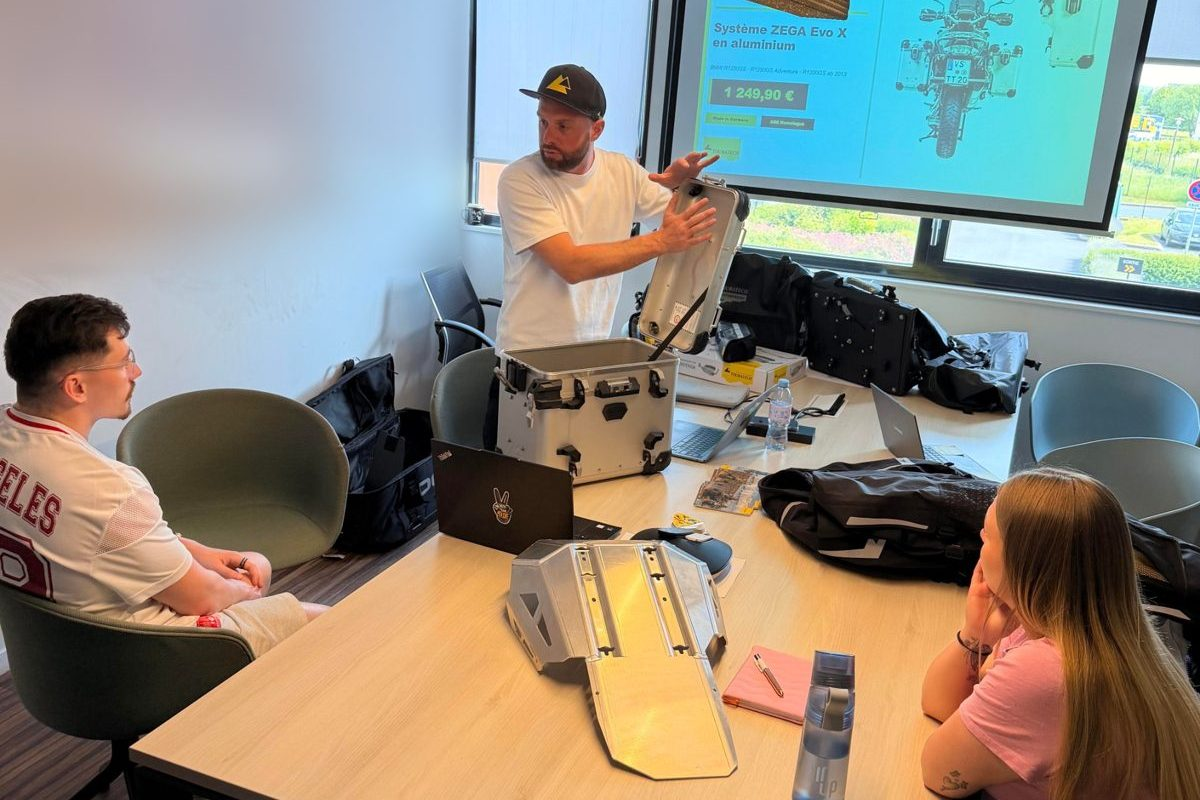
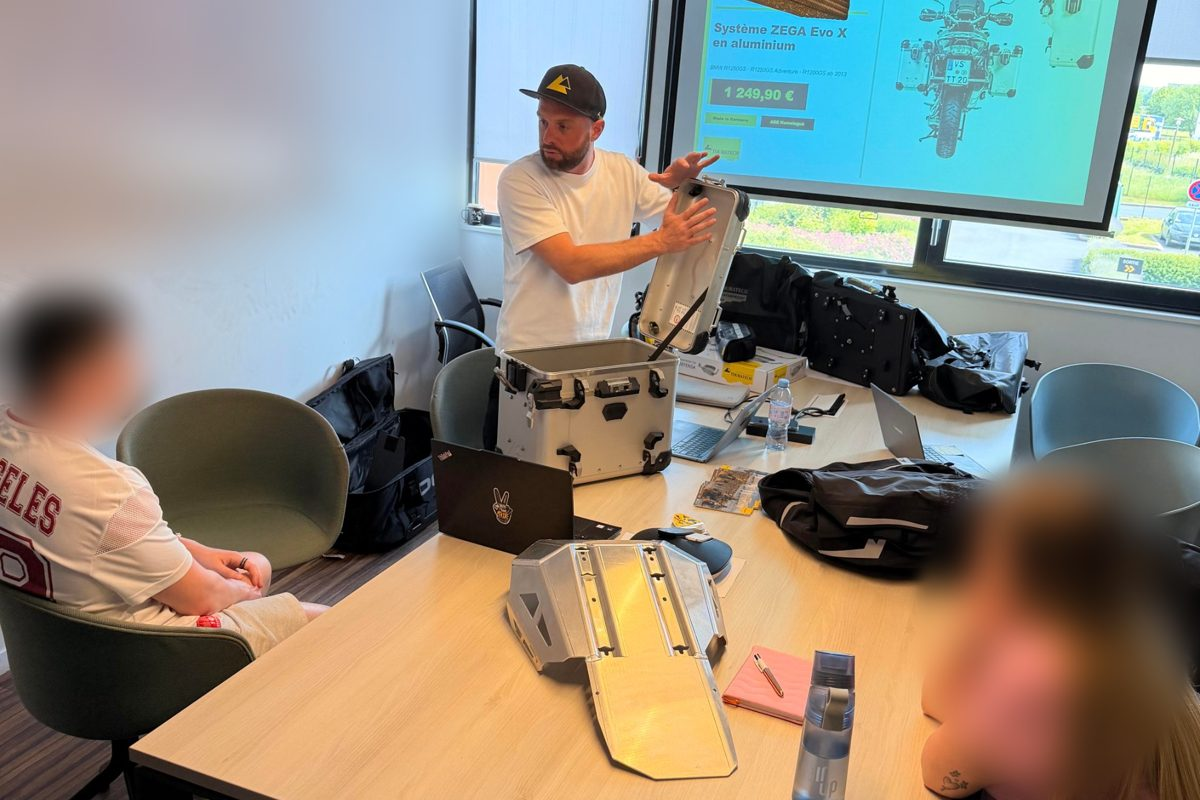
Visages floutés, mentions légales complètes, TVA 293 B
Claude-Session: https://claude.ai/code/session_0161zJMtCFfV81ACgwLPUevq

Changed region(s): [[0.74, 0.5625, 1.0, 1.0], [0.0, 0.3438, 0.1542, 0.5625], [0.9867, 0.2188, 1.0, 0.25]]

diff --git a/index.html b/index.html
@@ -32,9 +32,9 @@
   "image": ["https://raynaudquent.github.io/raynaud-consulting/og-image.png", "https://raynaudquent.github.io/raynaud-consulting/img/quentin-raynaud.jpg"],
   "telephone": "+33743506722",
   "email": "infos@brame-store.com",
-  "priceRange": "350 € – 1 400 € HT",
+  "priceRange": "350 € – 1 400 €",
   "identifier": {"@type": "PropertyValue", "propertyID": "SIREN", "value": "943388728"},
-  "address": {"@type": "PostalAddress", "addressLocality": "Seyssel", "postalCode": "74910", "addressRegion": "Haute-Savoie", "addressCountry": "FR"},
+  "address": {"@type": "PostalAddress", "addressLocality": "Seyssel", "postalCode": "01420", "addressRegion": "Ain", "addressCountry": "FR"},
   "areaServed": ["Haute-Savoie", "Savoie", "Ain", "Isère", "Annecy", "Chambéry", "Lyon", "Genève", "Suisse romande"],
   "founder": {"@type": "Person", "name": "Quentin Raynaud", "jobTitle": "Coach vente", "sameAs": ["https://www.linkedin.com/in/quentin-raynaud-825677b0/"]},
   "sameAs": ["https://www.linkedin.com/in/quentin-raynaud-825677b0/"],
@@ -189,10 +189,10 @@
   <div class="wrap">
     <p class="eyebrow">Tarifs</p>
     <h2>Des prix clairs, sans engagement</h2>
-    <p class="intro">Tarifs hors taxes. Déplacements inclus jusqu'à 50 km autour de Seyssel, puis sur devis. Interventions possibles en Suisse romande.</p>
+    <p class="intro">Prix nets : TVA non applicable, art. 293 B du CGI. Déplacements inclus jusqu'à 50 km autour de Seyssel, puis sur devis. Interventions possibles en Suisse romande.</p>
     <div class="table-box">
       <table>
-        <thead><tr><th scope="col">Prestation</th><th scope="col">Durée</th><th scope="col">Tarif HT</th></tr></thead>
+        <thead><tr><th scope="col">Prestation</th><th scope="col">Durée</th><th scope="col">Tarif</th></tr></thead>
         <tbody>
           <tr><td>Diagnostic magasin</td><td class="muted">½ journée + rapport</td><td><strong>450 €</strong></td></tr>
           <tr><td>Atelier vendeurs</td><td class="muted">½ journée</td><td><strong>350 €</strong></td></tr>
@@ -294,8 +294,8 @@
     <div>
       <strong>Raynaud Consulting</strong>
       <p>Coaching vente terrain pour commerces spécialisés et concessions</p>
-      <p>Seyssel (74) · Annecy · Chambéry · Genève · Lyon</p>
-      <p>SIREN : 943 388 728</p>
+      <p>Seyssel (01) · Annecy · Chambéry · Genève · Lyon</p>
+      <p>SIREN : 943 388 728 · TVA non applicable, art. 293 B du CGI</p>
     </div>
     <div>
       <p><a href="tel:+33743506722">+33 7 43 50 67 22</a></p>

diff --git a/mentions-legales.html b/mentions-legales.html
@@ -22,11 +22,10 @@ a{color:#A34B22}
 <h1>Mentions légales</h1>
 <h2>Éditeur du site</h2>
 <p>Raynaud Consulting<br>
-Quentin Raynaud<br>
-[FORME JURIDIQUE – ex. entreprise individuelle]<br>
-[ADRESSE POSTALE]<br>
+Quentin Raynaud, entrepreneur individuel (micro-entreprise)<br>
+3 montée de la Galaise, 01420 Seyssel, France<br>
 SIREN : 943 388 728<br>
-[N° TVA INTRACOMMUNAUTAIRE ou « TVA non applicable, art. 293 B du CGI »]<br>
+TVA non applicable, art. 293 B du CGI<br>
 Téléphone : +33 7 43 50 67 22<br>
 E-mail : infos@brame-store.com</p>
 <h2>Directeur de la publication</h2>

diff --git a/conseils/augmenter-panier-moyen-magasin.html b/conseils/augmenter-panier-moyen-magasin.html
@@ -64,7 +64,7 @@
 </main>
 <footer class="footer">
   <div class="wrap">
-    <div><strong>Raynaud Consulting</strong><p>Coaching vente terrain · Seyssel (74)</p></div>
+    <div><strong>Raynaud Consulting</strong><p>Coaching vente terrain · Seyssel (01)</p></div>
     <div><p><a href="mailto:infos@brame-store.com">infos@brame-store.com</a> · <a href="../mentions-legales.html">Mentions légales</a></p><p>© 2026 Raynaud Consulting</p></div>
   </div>
 </footer>

diff --git a/conseils/rentabiliser-salon-portes-ouvertes.html b/conseils/rentabiliser-salon-portes-ouvertes.html
@@ -67,7 +67,7 @@
 </main>
 <footer class="footer">
   <div class="wrap">
-    <div><strong>Raynaud Consulting</strong><p>Coaching vente terrain · Seyssel (74)</p></div>
+    <div><strong>Raynaud Consulting</strong><p>Coaching vente terrain · Seyssel (01)</p></div>
     <div><p><a href="mailto:infos@brame-store.com">infos@brame-store.com</a> · <a href="../mentions-legales.html">Mentions légales</a></p><p>© 2026 Raynaud Consulting</p></div>
   </div>
 </footer>

diff --git a/conseils/vente-additionnelle-sans-forcer.html b/conseils/vente-additionnelle-sans-forcer.html
@@ -60,7 +60,7 @@
 </main>
 <footer class="footer">
   <div class="wrap">
-    <div><strong>Raynaud Consulting</strong><p>Coaching vente terrain · Seyssel (74)</p></div>
+    <div><strong>Raynaud Consulting</strong><p>Coaching vente terrain · Seyssel (01)</p></div>
     <div><p><a href="mailto:infos@brame-store.com">infos@brame-store.com</a> · <a href="../mentions-legales.html">Mentions légales</a></p><p>© 2026 Raynaud Consulting</p></div>
   </div>
 </footer>

diff --git a/README.md b/README.md
@@ -17,7 +17,6 @@ Site vitrine statique (HTML + CSS, sans dépendance) de l'activité de coaching 
 ## À compléter
 1. **Prise de rendez-vous** : page de réservation Google Agenda (raynaud.quent@gmail.com) : https://calendar.app.google/7eh8m2vPy84mkDx29. Créneaux et durée modifiables dans Google Agenda › Pages de réservation.
 4. **Avis clients** : la section `#avis` est masquée (`hidden`). La remplir et retirer `hidden` après les premiers clients.
-5. **Mentions légales** : forme juridique, adresse, régime de TVA.
 
 ## Publication avec GitHub Pages
 Settings → Pages → Source : « Deploy from a branch », branche `main`, dossier `/ (root)`.
